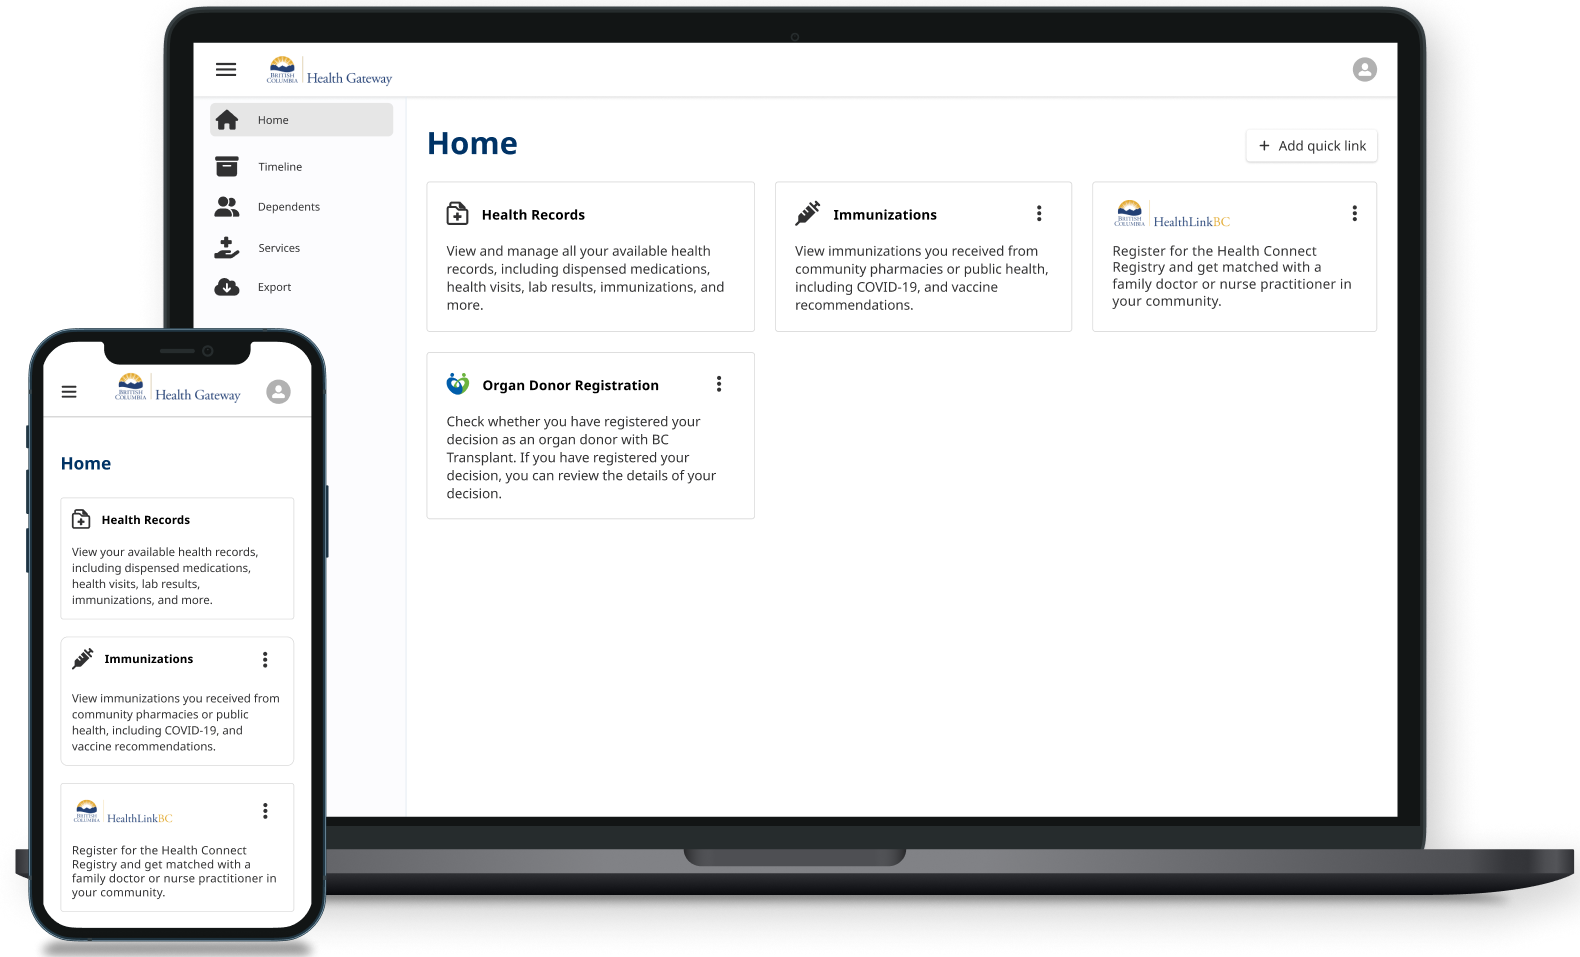
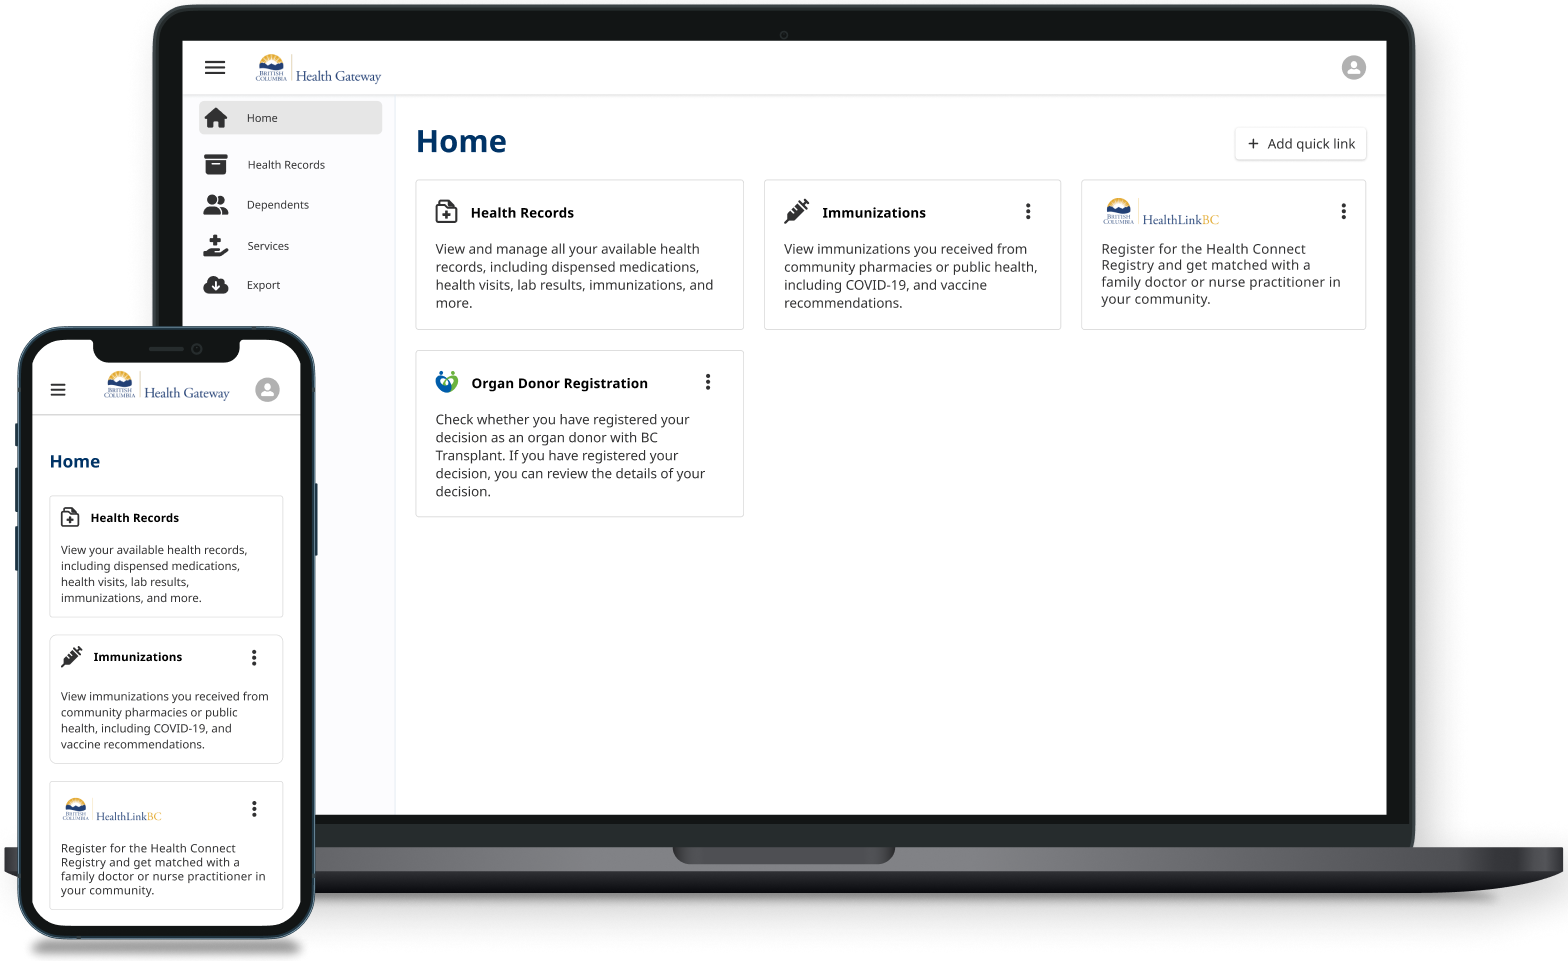
Update health records card and laptop image (DHSOHG-3008) for AB#16969. (#6496)

diff --git a/Apps/WebClient/src/ClientApp/src/components/public/landing/LandingView.vue b/Apps/WebClient/src/ClientApp/src/components/public/landing/LandingView.vue
@@ -36,12 +36,23 @@ const authStore = useAuthStore();
 
 const selectedPreviewDevice = ref(PreviewDevice.laptop);
 const { mdAndUp, smAndDown, width, xs } = useDisplay();
+
+// Narrow-phone detection (e.g., Galaxy Z Fold width)
+const isVeryNarrowPhone = computed(() => width.value <= 360);
+
+// Tight-phone threshold for managed health cards
 const isTightPhone = computed(() => width.value <= 375);
+
+/*
+  Carousel heights depend not only on screen width, but also on the
+  length of the AccessLink name/description content inside each card.
+  These values were tuned to prevent text clipping across all major phones.
+*/
 const accessLinkCarouselHeight = computed(() =>
-    isTightPhone.value ? 290 : 270
+    isVeryNarrowPhone.value ? 360 : 340
 );
 const managedHealthCarouselHeight = computed(() =>
-    isTightPhone.value ? 390 : 370
+    isTightPhone.value ? 400 : 370
 );
 
 const showLaptopTooltip = ref(false);
@@ -413,7 +424,7 @@ function openExternalLink(url?: string) {
                 informed about your health.
             </p>
             <v-carousel
-                v-if="!mdAndUp"
+                v-if="xs"
                 :height="accessLinkCarouselHeight"
                 class="w-100"
                 color="primary"
@@ -557,7 +568,7 @@ function openExternalLink(url?: string) {
                 Explore other trusted B.C. health services
             </h2>
             <v-carousel
-                v-if="!mdAndUp"
+                v-if="xs"
                 :height="managedHealthCarouselHeight"
                 class="w-100"
                 color="primary"

diff --git a/Apps/WebClient/src/ClientApp/src/constants/accessLinks.ts b/Apps/WebClient/src/ClientApp/src/constants/accessLinks.ts
@@ -28,7 +28,7 @@ const ALL_TILES = [
         type: AccessLinkType.HealthRecords,
         name: "Health records",
         description:
-            "View health records including immunizations, lab results, imaging reports, medications, BC Cancer Screening letters and more.",
+            "View health records including immunizations, lab results, imaging reports, medications, health and hospital visits, special authority requests, clinical documents, BC Cancer Screening letters and more.",
         link: "https://www2.gov.bc.ca/gov/content/health/managing-your-health/health-gateway/guide/healthrecords",
         active: true,
     },
